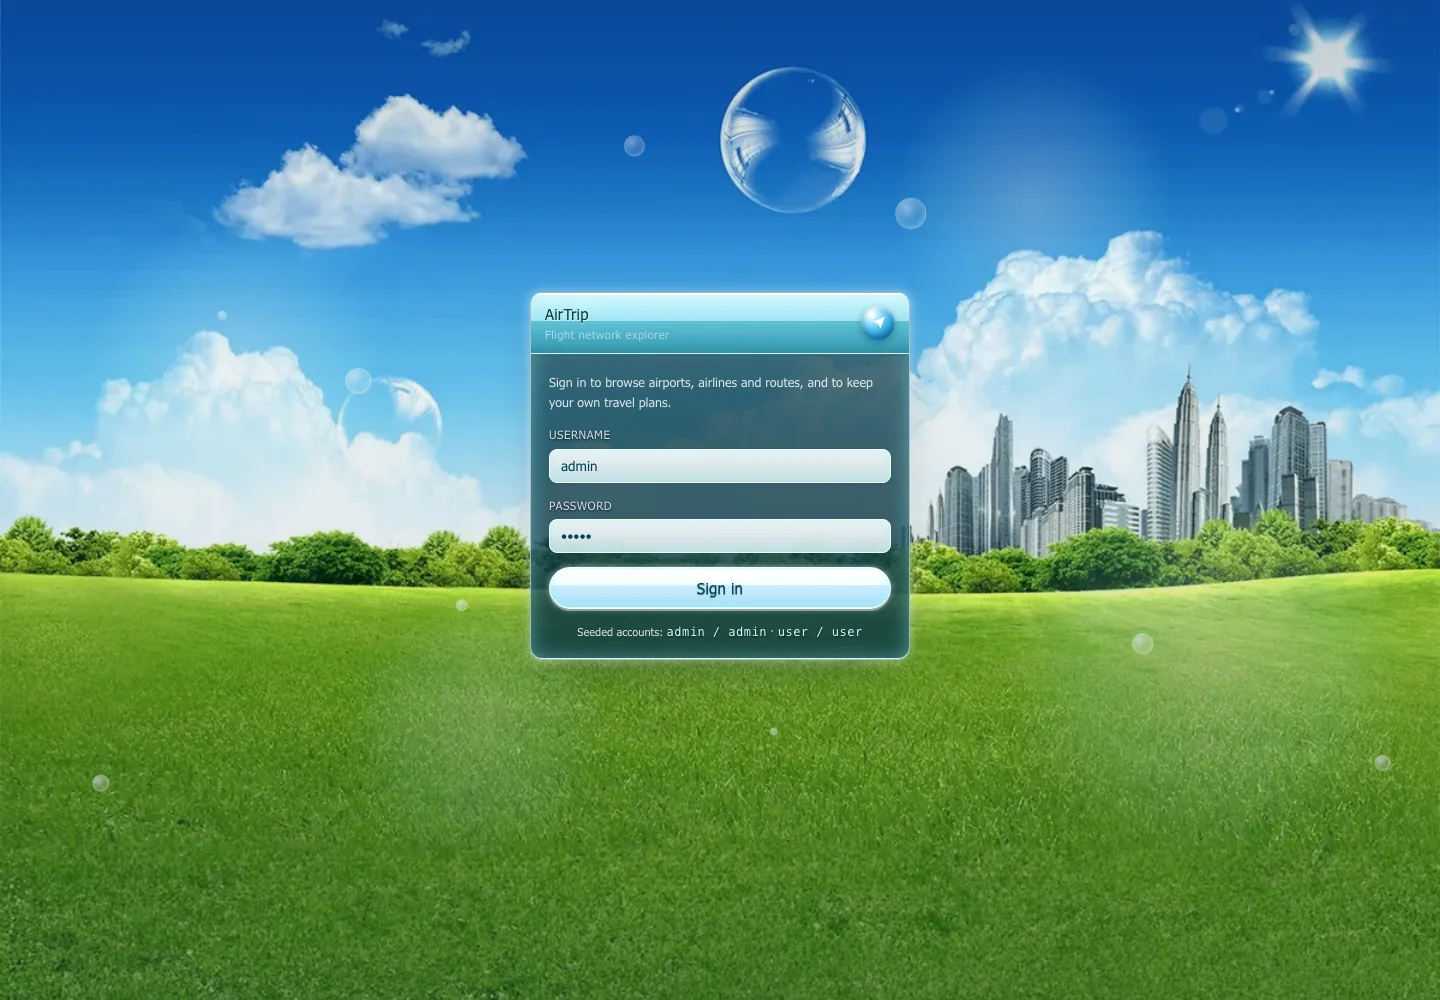
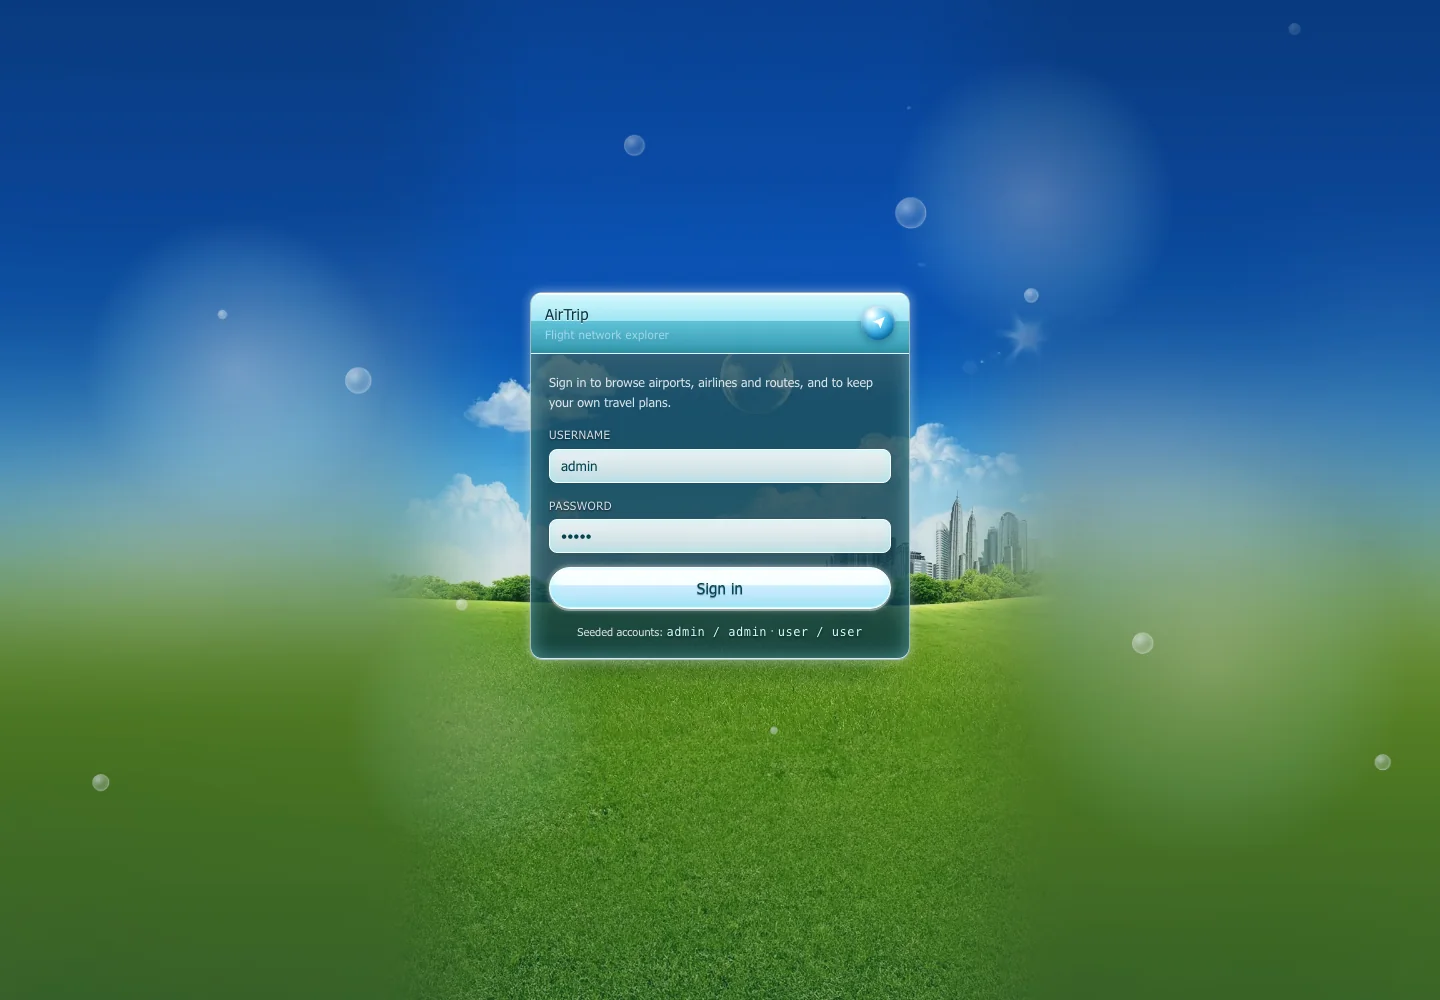
Show the whole wallpaper: smaller photo, blurred continuation at the sides
The portrait photo now sits at 46% of a 16:10 canvas instead of being cropped to
the viewport, so the sky, the sunlight at the top right, the skyline and the grass
all fit. A blurred copy of the same photo feathers into both sides.

diff --git a/airtrip-web/src/styles/theme-aqua.css b/airtrip-web/src/styles/theme-aqua.css
@@ -92,8 +92,8 @@
 
 [data-theme='aqua'][data-wallpaper='on'] .aero-scene {
   background:
-    url('../assets/aero-wallpaper.webp') center 72% / cover no-repeat,
-    linear-gradient(180deg, #1670c8 0%, #4fb6e8 55%, #7ed06a 100%);
+    url('../assets/aero-wallpaper-wide.webp') center 50% / cover no-repeat,
+    linear-gradient(180deg, #1670c8 0%, #4fb6e8 40%, #6cc4ec 62%, #7ed06a 100%);
 }
 
 [data-theme='aqua'][data-wallpaper='on'] .aero-sun,
